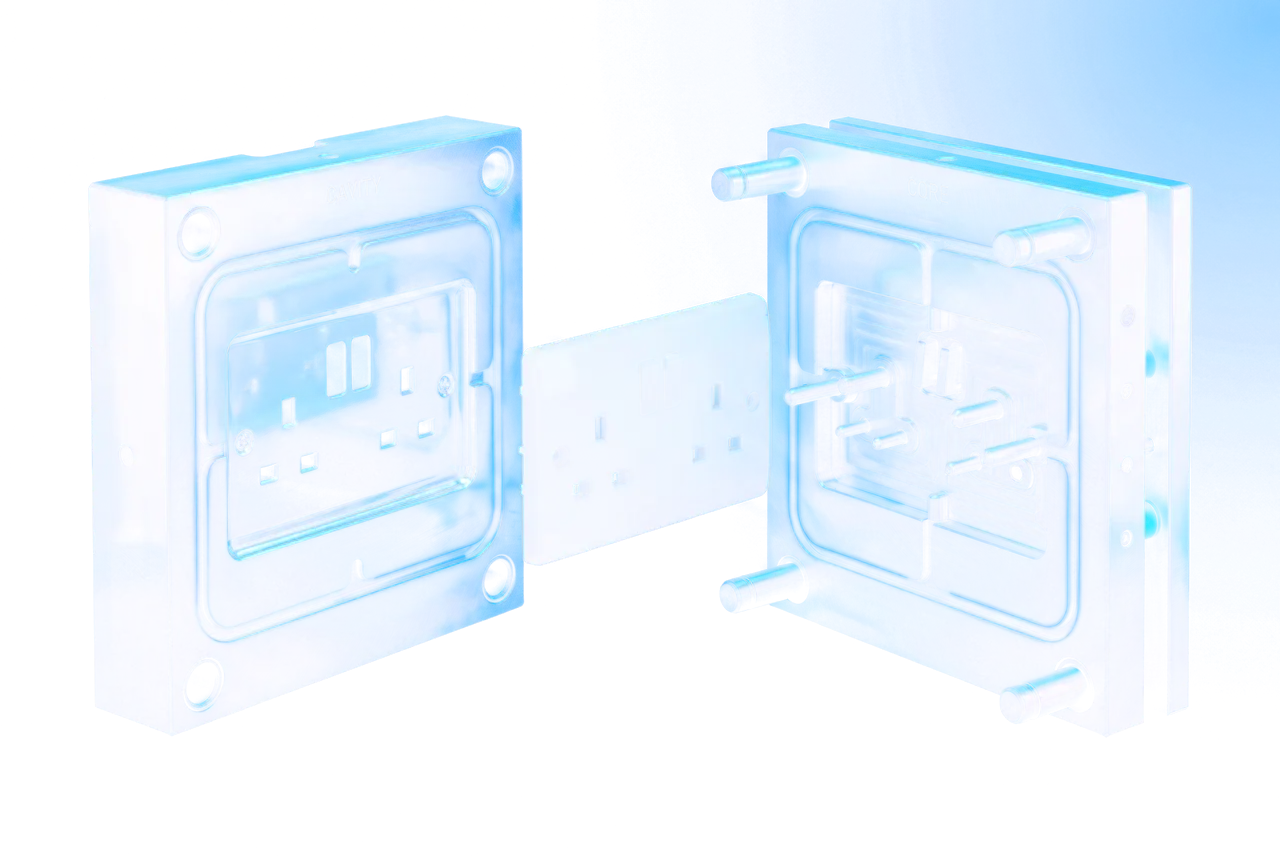
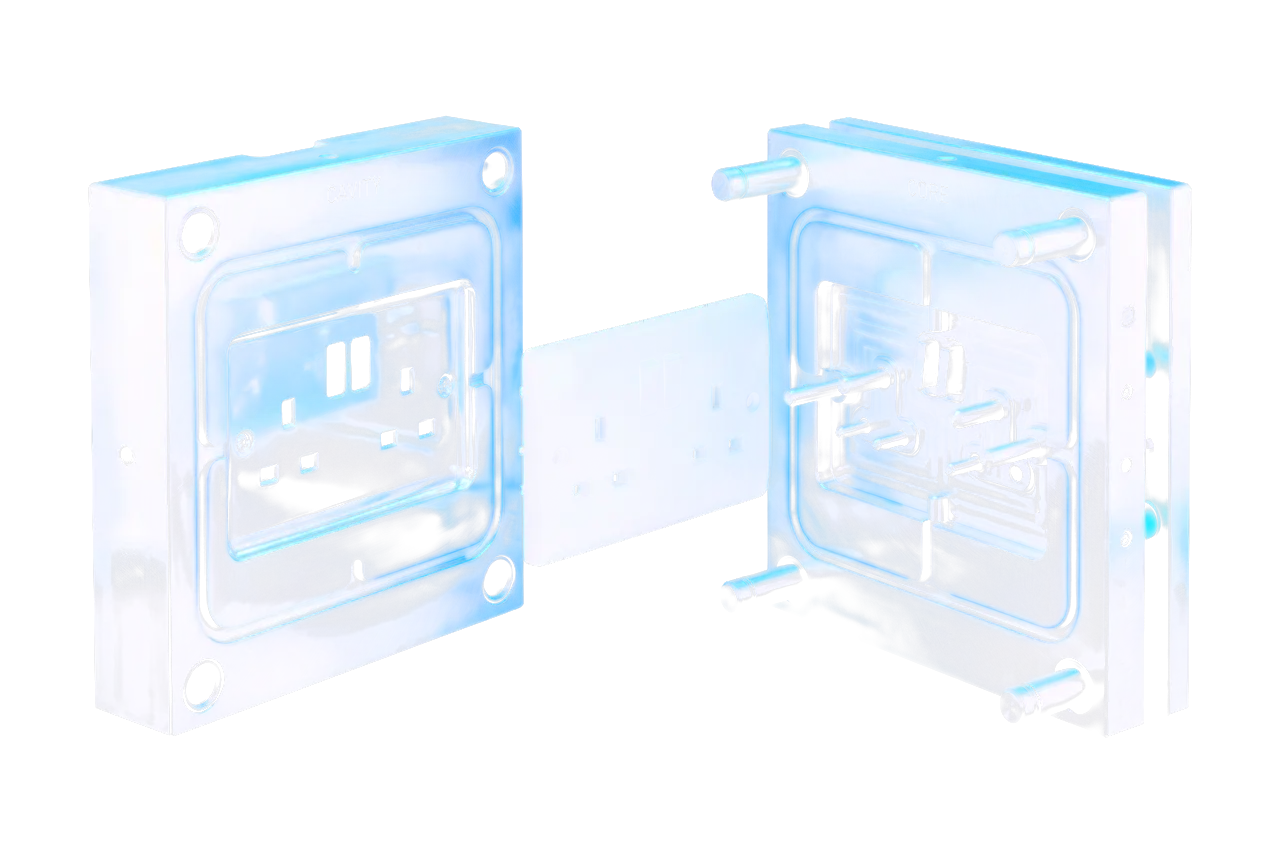
Clean projections (noise-aware keying, new globe), space finale with aurora + ringed planet, masked sheen

diff --git a/src/space.js b/src/space.js
@@ -31,10 +31,11 @@ function make(origin, tangent) {
     uniforms: { uTime: { value: 0 }, uStr: { value: 0 },
       cDeep: { value: new THREE.Color("#05070F") }, cIndigo: { value: new THREE.Color("#3B2E8C") },
       cBlue: { value: new THREE.Color("#1D4ED8") }, cCyan: { value: new THREE.Color("#5FE3FF") },
-      cViolet: { value: new THREE.Color("#8B5CF6") }, uAxis: { value: T.clone() } },
+      cViolet: { value: new THREE.Color("#8B5CF6") }, cGreen: { value: new THREE.Color("#3DFFB0") },
+      cYellow: { value: new THREE.Color("#FFE27A") }, uAxis: { value: T.clone() } },
     vertexShader: `varying vec3 vDir; void main(){ vDir = normalize(position); gl_Position = projectionMatrix * modelViewMatrix * vec4(position, 1.0); }`,
     fragmentShader: `precision highp float; varying vec3 vDir;
-      uniform float uTime, uStr; uniform vec3 cDeep, cIndigo, cBlue, cCyan, cViolet, uAxis;
+      uniform float uTime, uStr; uniform vec3 cDeep, cIndigo, cBlue, cCyan, cViolet, cGreen, cYellow, uAxis;
       ${NOISE}
       float stars(vec3 d, float scale, float thr, float tw){
         vec3 p = d * scale; vec3 i = floor(p); vec3 f = fract(p) - 0.5;
@@ -48,8 +49,9 @@ function make(origin, tangent) {
         vec3 d = normalize(vDir);
         // nebula: two layers of fbm pulled toward the pipe axis so the exit opens into a glowing cloud
         float axial = pow(max(0.0, dot(d, uAxis)), 1.6);
-        float n1 = fbm(d * 2.2 + vec3(uTime * 0.008, 0.0, 0.0));
-        float n2 = fbm(d * 5.0 - vec3(0.0, uTime * 0.006, 0.0));
+        float n1 = fbm(d * 2.2 + vec3(uTime * 0.020, uTime * 0.007, 0.0));
+        float n2 = fbm(d * 5.0 - vec3(0.0, uTime * 0.016, uTime * 0.005));
+        float n3 = fbm(d * 3.4 + vec3(uTime * 0.011, -uTime * 0.009, 4.0));
         float cloud = smoothstep(0.38, 0.85, n1 * 0.7 + n2 * 0.5);
         float wisps = smoothstep(0.55, 0.95, n2);
         vec3 neb = cDeep;
@@ -57,6 +59,14 @@ function make(origin, tangent) {
         neb = mix(neb, cBlue * 0.85, cloud * wisps * 0.9);
         neb = mix(neb, cViolet * 0.7, smoothstep(0.6, 0.9, n1) * (1.0 - axial) * 0.5);
         neb += cCyan * pow(wisps, 3.0) * 0.35 * (0.5 + axial);
+        // aurora: living green-teal curtains that ripple through the cloud, with golden cores
+        float aur = smoothstep(0.40, 0.78, n3) * (0.65 + 0.35 * sin(uTime * 0.6 + n1 * 12.0));
+        neb = mix(neb, cGreen * 0.85, aur * (0.35 + cloud * 0.65));
+        neb += cYellow * pow(aur, 2.0) * 0.55 * (0.5 + 0.5 * sin(uTime * 0.9 + n2 * 20.0));
+        neb += cGreen * pow(max(0.0, n2 - 0.5) * 2.0, 2.0) * 0.35;
+        // slow golden shafts sweeping across (light through the cloud)
+        float shaft = pow(0.5 + 0.5 * sin(dot(d, vec3(3.0, 5.0, 2.0)) * 4.0 + uTime * 0.25 + n1 * 3.0), 6.0);
+        neb += cYellow * shaft * 0.10 * cloud;
         neb *= 0.55 + axial * 0.9;
         // a luminous band (our galaxy) across the sky
         float band = exp(-pow(dot(d, normalize(cross(uAxis, vec3(0.3, 1.0, 0.2)))), 2.0) * 9.0);
@@ -65,7 +75,10 @@ function make(origin, tangent) {
         float st = stars(d, 60.0, 0.955, 1.0) * 1.4
                  + stars(d, 130.0, 0.945, 1.6) * 0.9
                  + stars(d, 260.0, 0.93, 2.2) * 0.5;
-        vec3 col = neb + vec3(0.9, 0.96, 1.0) * st * (0.7 + band * 0.8);
+        // stars in three temperatures: ice-white, warm gold, faint green
+        float hue = hash(floor(d * 60.0) + 9.0);
+        vec3 starCol = hue < 0.55 ? vec3(0.9, 0.96, 1.0) : (hue < 0.85 ? cYellow : cGreen);
+        vec3 col = neb + starCol * st * (0.8 + band * 0.9);
         gl_FragColor = vec4(col * uStr, 1.0);
       }`
   });
@@ -76,36 +89,50 @@ function make(origin, tangent) {
   const sunDir = new THREE.Vector3().copy(T).multiplyScalar(-0.3).addScaledVector(R, -0.8).addScaledVector(U, 0.5).normalize();
   const planetMat = new THREE.ShaderMaterial({
     uniforms: { uTime: { value: 0 }, uStr: { value: 0 }, uSun: { value: sunDir },
-      cA: { value: new THREE.Color("#0B1A4A") }, cB: { value: new THREE.Color("#1D4ED8") },
-      cC: { value: new THREE.Color("#5FE3FF") }, cD: { value: new THREE.Color("#3B2E8C") } },
+      cA: { value: new THREE.Color("#12327F") }, cB: { value: new THREE.Color("#5FA8FF") },
+      cC: { value: new THREE.Color("#E6FAFF") }, cD: { value: new THREE.Color("#A48BFF") },
+      cGold: { value: new THREE.Color("#FFE7B8") } },
     vertexShader: `varying vec3 vN; varying vec3 vP; varying vec3 vV;
       void main(){ vN = normalize(normalMatrix * normal); vP = position;
         vec4 mv = modelViewMatrix * vec4(position, 1.0); vV = normalize(-mv.xyz); gl_Position = projectionMatrix * mv; }`,
     fragmentShader: `precision highp float; varying vec3 vN; varying vec3 vP; varying vec3 vV;
-      uniform float uTime, uStr; uniform vec3 uSun, cA, cB, cC, cD;
+      uniform float uTime, uStr; uniform vec3 uSun, cA, cB, cC, cD, cGold;
       ${NOISE}
       void main(){
         vec3 p = normalize(vP);
         float lat = p.y;
-        float turb = fbm(vec3(p.x * 3.0 + uTime * 0.02, lat * 9.0, p.z * 3.0)) - 0.5;
-        float bands = sin(lat * 26.0 + turb * 6.0) * 0.5 + 0.5;
-        float storm = smoothstep(0.75, 0.95, fbm(p * 6.0 + 3.0));
-        vec3 col = mix(cA, cB, bands);
-        col = mix(col, cD, smoothstep(0.3, 0.7, fbm(vec3(lat * 4.0, p.x, p.z) + 7.0)) * 0.6);
-        col = mix(col, cC, storm * 0.5);
+        // flowing bands: turbulence shears the latitude lines, slowly drifting
+        float turb = fbm(vec3(p.x * 2.6 + uTime * 0.03, lat * 8.0, p.z * 2.6)) - 0.5;
+        float turb2 = fbm(vec3(p.x * 7.0 - uTime * 0.02, lat * 20.0, p.z * 7.0) + 5.0) - 0.5;
+        float b1 = sin(lat * 22.0 + turb * 7.0 + turb2 * 2.0) * 0.5 + 0.5;
+        float b2 = sin(lat * 47.0 - turb * 4.0) * 0.5 + 0.5;
+        float storm = smoothstep(0.72, 0.95, fbm(p * 5.0 + vec3(uTime * 0.01, 0.0, 0.0) + 3.0));
+        vec3 col = mix(cA, cB, pow(b1, 1.4));
+        col = mix(col, cD, smoothstep(0.35, 0.75, b2) * 0.30 * (1.0 - b1));
+        col = mix(col, cC, storm * 0.7 + pow(b1, 6.0) * 0.25);
+        // polar ice caps with a rippling green aurora ring around them
+        col = mix(col, cC, smoothstep(0.78, 0.95, abs(lat)) * 0.7);
+        float auroraRing = smoothstep(0.62, 0.72, abs(lat)) * (1.0 - smoothstep(0.74, 0.84, abs(lat)));
+        float ripple = 0.5 + 0.5 * sin(atan(p.z, p.x) * 9.0 + uTime * 1.3 + turb * 6.0);
+        col += vec3(0.24, 1.0, 0.69) * auroraRing * ripple * 0.55;
         vec3 N = normalize(vN);
-        float diff = max(0.0, dot(N, normalize((viewMatrix * vec4(uSun, 0.0)).xyz)));
-        float wrap = pow(diff, 0.6) * 1.15 + 0.10;
+        vec3 L = normalize((viewMatrix * vec4(uSun, 0.0)).xyz);
+        float diff = max(0.0, dot(N, L));
+        float wrap = pow(diff, 0.55) * 1.2 + 0.08;
         float fres = pow(1.0 - max(0.0, dot(N, vV)), 3.0);
-        col = col * wrap + cC * fres * (0.35 + diff * 0.6);
+        // champagne-gold light along the terminator, icy blue atmosphere on the rim
+        float term = smoothstep(0.0, 0.25, diff) * (1.0 - smoothstep(0.25, 0.6, diff));
+        col = col * wrap + cGold * term * 0.16 + cB * fres * (0.35 + diff * 0.8) + cC * fres * fres * 0.5;
         gl_FragColor = vec4(col * uStr, 1.0);
       }`
   });
   const planet = new THREE.Mesh(new THREE.SphereGeometry(58, 64, 48), planetMat);
   const pPos = origin.clone().addScaledVector(T, 210).addScaledVector(R, 95).addScaledVector(U, 28);
-  planet.position.copy(pPos);
-  planet.rotation.z = 0.35; planet.rotation.x = 0.2;
-  group.add(planet);
+  const system = new THREE.Group();            // planet + ring share one axial tilt
+  system.position.copy(pPos);
+  system.rotation.set(0.42, 0.0, 0.30);
+  group.add(system);
+  system.add(planet);
 
   const ringMat = new THREE.ShaderMaterial({
     side: THREE.DoubleSide, transparent: true, depthWrite: false,
@@ -119,7 +146,8 @@ function make(origin, tangent) {
         float lanes = smoothstep(0.35, 0.8, g) * (1.0 - smoothstep(0.92, 1.0, r)) * smoothstep(0.0, 0.08, r);
         float gap = 1.0 - smoothstep(0.55, 0.58, r) * (1.0 - smoothstep(0.62, 0.65, r));
         float a = lanes * gap * 0.55;
-        vec3 col = mix(cB, cC, r) * (0.55 + 0.45 * g);
+        vec3 col = mix(mix(vec3(1.0, 0.89, 0.55), cB, smoothstep(0.0, 0.25, r)), cC, r) * (0.55 + 0.45 * g);
+        col = mix(col, vec3(0.45, 1.0, 0.75), smoothstep(0.78, 0.86, r) * (1.0 - smoothstep(0.86, 0.9, r)) * 0.6);
         gl_FragColor = vec4(col * uStr, a * uStr);
       }`
   });
@@ -128,9 +156,8 @@ function make(origin, tangent) {
   { const uv = ringGeo.attributes.uv, pos = ringGeo.attributes.position;
     for (let i = 0; i < uv.count; i++) { const x = pos.getX(i), y = pos.getY(i); uv.setXY(i, (Math.hypot(x, y) - 74) / (128 - 74), 0); } }
   const ring = new THREE.Mesh(ringGeo, ringMat);
-  ring.position.copy(pPos);
-  ring.rotation.set(Math.PI / 2 - 0.42, 0.18, 0.35);
-  group.add(ring);
+  ring.rotation.x = Math.PI / 2;                 // equatorial plane of the tilted system
+  system.add(ring);
 
   // atmosphere halo (additive sprite)
   const haloTex = (() => { const c = document.createElement("canvas"); c.width = c.height = 256;
@@ -142,7 +169,7 @@ function make(origin, tangent) {
   group.add(halo);
 
   /* ---- drifting dust ---- */
-  const COUNT = isMobile ? 500 : 1400;
+  const COUNT = isMobile ? 700 : 2200;
   const geo = new THREE.BufferGeometry();
   const arr = new Float32Array(COUNT * 3), sh = new Float32Array(COUNT);
   for (let i = 0; i < COUNT; i++) {
@@ -161,12 +188,43 @@ function make(origin, tangent) {
     fragmentShader: `precision highp float; varying float vS; uniform float uStr, uTime; uniform vec3 cB, cC;
       void main(){ float d = length(gl_PointCoord - 0.5); float a = smoothstep(0.5, 0.0, d);
         float tw = 0.6 + 0.4 * sin(uTime * (1.0 + vS * 2.0) + vS * 50.0);
-        gl_FragColor = vec4(mix(cB, cC, vS), a * tw * 0.8 * uStr); }`
+        vec3 col = vS < 0.6 ? mix(cB, cC, vS / 0.6) : (vS < 0.82 ? vec3(1.0, 0.88, 0.48) : vec3(0.35, 1.0, 0.7));
+        gl_FragColor = vec4(col, a * tw * 0.85 * uStr); }`
   });
   const dust = new THREE.Points(geo, dustMat); dust.frustumCulled = false;
   group.add(dust);
 
   sky.position.copy(origin).addScaledVector(T, 40);
+
+  /* ---- two moons on tilted orbits ---- */
+  const moonMat = new THREE.ShaderMaterial({
+    uniforms: { uStr: { value: 0 }, uSun: { value: sunDir }, cM: { value: new THREE.Color("#C9D6EA") }, cR: { value: new THREE.Color("#7FB8FF") } },
+    vertexShader: `varying vec3 vN; varying vec3 vV; varying vec3 vP; void main(){ vN = normalize(normalMatrix * normal); vP = position;
+      vec4 mv = modelViewMatrix * vec4(position, 1.0); vV = normalize(-mv.xyz); gl_Position = projectionMatrix * mv; }`,
+    fragmentShader: `precision highp float; varying vec3 vN; varying vec3 vV; varying vec3 vP; uniform float uStr; uniform vec3 uSun, cM, cR;
+      ${NOISE}
+      void main(){ vec3 N = normalize(vN); float diff = max(0.0, dot(N, normalize((viewMatrix * vec4(uSun, 0.0)).xyz)));
+        float crat = fbm(normalize(vP) * 9.0); vec3 col = cM * (0.55 + 0.45 * crat) * (pow(diff, 0.7) * 1.1 + 0.05);
+        col += cR * pow(1.0 - max(0.0, dot(N, vV)), 3.0) * 0.4; gl_FragColor = vec4(col * uStr, 1.0); }`
+  });
+  const moons = [
+    { m: new THREE.Mesh(new THREE.SphereGeometry(7, 32, 24), moonMat), r: 150, speed: 0.11, tilt: 0.35, phase: 0.8 },
+    { m: new THREE.Mesh(new THREE.SphereGeometry(4, 24, 16), moonMat), r: 195, speed: 0.07, tilt: -0.22, phase: 3.4 }
+  ];
+  moons.forEach(o => group.add(o.m));
+
+  /* ---- comets: additive streaks that cross the sky now and then ---- */
+  const cometTex = (() => { const c = document.createElement("canvas"); c.width = 256; c.height = 16;
+    const g = c.getContext("2d"), lg = g.createLinearGradient(0, 0, 256, 0);
+    lg.addColorStop(0, "rgba(255,255,255,0)"); lg.addColorStop(0.75, "rgba(160,220,255,0.35)"); lg.addColorStop(0.97, "rgba(255,255,255,1)"); lg.addColorStop(1, "rgba(255,255,255,0)");
+    g.fillStyle = lg; g.fillRect(0, 0, 256, 16); return new THREE.CanvasTexture(c); })();
+  const comets = [];
+  for (let i = 0; i < 3; i++) {
+    const m = new THREE.Mesh(new THREE.PlaneGeometry(60, 1.6), new THREE.MeshBasicMaterial({ map: cometTex, transparent: true, opacity: 0,
+      blending: THREE.AdditiveBlending, depthWrite: false, side: THREE.DoubleSide }));
+    group.add(m); comets.push({ m, t0: -10 - i * 7, period: 11 + i * 5, dur: 2.2, a: Math.random() * 6.28, b: Math.random(), armed: false });
+  }
+  const _cp = new THREE.Vector3(), _cd = new THREE.Vector3(), _X = new THREE.Vector3(1, 0, 0), _cq = new THREE.Quaternion();
   group.visible = false;
 
   return {
@@ -178,7 +236,29 @@ function make(origin, tangent) {
       planetMat.uniforms.uTime.value = t; planetMat.uniforms.uStr.value = str;
       ringMat.uniforms.uStr.value = str; halo.material.opacity = str * 0.9;
       dustMat.uniforms.uTime.value = t; dustMat.uniforms.uStr.value = str;
-      planet.rotation.y = t * 0.02;
+      planet.rotation.y = t * 0.06;
+      sky.rotation.y = t * 0.004; sky.rotation.x = Math.sin(t * 0.03) * 0.02;
+      ring.rotation.z = t * 0.01;
+      moonMat.uniforms.uStr.value = str;
+      moons.forEach(o => {
+        const a = t * o.speed + o.phase;
+        o.m.position.copy(pPos).addScaledVector(R, Math.cos(a) * o.r).addScaledVector(T, Math.sin(a) * o.r * 0.55)
+          .addScaledVector(U, Math.sin(a) * o.r * o.tilt);
+        o.m.rotation.y = t * 0.2;
+      });
+      comets.forEach(c => {
+        const k = ((t - c.t0) % c.period + c.period) % c.period;    // time since this comet last launched
+        if (k > c.dur) { c.m.material.opacity = 0; c.armed = false; return; }
+        const f = k / c.dur;
+        if (!c.armed) { c.a = Math.random() * 6.28; c.b = Math.random(); c.armed = true; }
+        // start high and to one side, streak across the field ahead of the exit
+        _cp.copy(origin).addScaledVector(T, 120 + c.b * 120).addScaledVector(R, Math.cos(c.a) * 150).addScaledVector(U, Math.sin(c.a) * 110 + 60);
+        _cd.copy(R).multiplyScalar(-1.0).addScaledVector(U, -0.7).addScaledVector(T, 0.2).normalize();
+        _cp.addScaledVector(_cd, f * 260);
+        c.m.position.copy(_cp);
+        _cq.setFromUnitVectors(_X, _cd); c.m.quaternion.copy(_cq);
+        c.m.material.opacity = Math.sin(f * Math.PI) * 0.9 * str;
+      });
     }
   };
 }

diff --git a/index.html b/index.html
@@ -180,10 +180,13 @@
     -webkit-mask-image:radial-gradient(120% 120% at 50% 50%, #000 58%, transparent 92%);
             mask-image:radial-gradient(120% 120% at 50% 50%, #000 58%, transparent 92%); }
   .st-photo img{ width:100%; height:auto; display:block; transform-origin:60% 45%;
-    filter:drop-shadow(0 0 34px rgba(59,130,246,.22));
+    filter:drop-shadow(0 0 14px rgba(95,227,255,.12));
     animation:kenburns 22s ease-in-out infinite alternate,
               holoflicker 8.5s linear infinite; }
-  .st-photo::after{ content:""; position:absolute; inset:-10%;
+  /* the light sweep is masked by the projection itself, so it only ever touches the subject */
+  .st-photo::after{ content:""; position:absolute; inset:0;
+    -webkit-mask-image:var(--img); mask-image:var(--img);
+    -webkit-mask-size:100% 100%; mask-size:100% 100%; -webkit-mask-repeat:no-repeat; mask-repeat:no-repeat;
     background:linear-gradient(112deg, transparent 43%,
       rgba(170,225,255,.16) 50%, rgba(170,225,255,.05) 53%, transparent 60%);
     animation:sheen 6.5s ease-in-out infinite; pointer-events:none; }
@@ -479,10 +482,10 @@
 <script src="lib/gsap.min.js"></script>
 <script src="lib/ScrollTrigger.min.js"></script>
 <script src="lib/lenis.min.js"></script>
-<script src="src/content.js?v=7"></script>
-<script src="src/scenes.js?v=7"></script>
-<script src="src/viz.js?v=7"></script>
-<script src="src/space.js?v=7"></script>
-<script src="src/app.js?v=7"></script>
+<script src="src/content.js?v=9"></script>
+<script src="src/scenes.js?v=9"></script>
+<script src="src/viz.js?v=9"></script>
+<script src="src/space.js?v=9"></script>
+<script src="src/app.js?v=9"></script>
 </body>
 </html>

diff --git a/src/app.js b/src/app.js
@@ -597,7 +597,7 @@ CV.stations.forEach((st, i) => {
         <div class="st-tools"></div>
         <ul class="st-bullets"></ul>
       </div>
-      ${hasImg ? '<div class="st-viz-wrap"><div class="st-photo"><img src="' + st.img + '" alt="" loading="lazy" /></div></div>' : ""}
+      ${hasImg ? '<div class="st-viz-wrap"><div class="st-photo" style="--img:url(' + st.img + ')"><img src="' + st.img + '" alt="" loading="lazy" /></div></div>' : ""}
       ${hasViz ? '<div class="st-viz-wrap"><canvas class="st-viz" width="560" height="340"></canvas></div>' : ""}
     </div>`;
   stage.appendChild(el);

diff --git a/tools/to_projection.py b/tools/to_projection.py
@@ -1,0 +1,40 @@
+"""Turn a black-background render into a floating 'projection' (RGBA WebP).
+
+Black -> transparent, with two guards against the faint "box" that plain
+luminance keying produces:
+  1. noise-aware: isolated near-black specks are dropped unless their
+     neighbourhood also carries light (spatial coherence),
+  2. gentle un-premultiply: dim pixels are brightened at most 3x, not blown to
+     full white, so residual haze can't read as a light rectangle.
+
+usage: python to_projection.py <src.png> <out.webp> [more src out pairs]
+"""
+import sys, numpy as np
+from PIL import Image, ImageFilter
+
+LO, HI = 30, 76          # noise floor / full-opacity point (0-255 max(R,G,B))
+
+def convert(src, out):
+    im = Image.open(src).convert("RGB")
+    im.thumbnail((1280, 1280), Image.LANCZOS)
+    rgb = np.asarray(im).astype(np.float32)
+    m = rgb.max(axis=2)
+    # base alpha: 0 below LO, ramps LO..HI, then follows brightness
+    a = np.where(m <= LO, 0.0, np.where(m < HI, (m - LO) * HI / (HI - LO), m))
+    # spatial coherence: blur the alpha; lonely specks have a dark neighbourhood
+    blur = np.asarray(Image.fromarray(np.clip(a, 0, 255).astype(np.uint8)).filter(ImageFilter.BoxBlur(5))).astype(np.float32)
+    coh = np.clip((blur - 6.0) / 34.0, 0.0, 1.0)
+    strong = np.clip((a - 60.0) / 40.0, 0.0, 1.0)          # bright pixels keep themselves
+    a = a * (strong + (1.0 - strong) * coh)
+    # colour: un-premultiply, capped
+    scale = np.where(m > 0, np.minimum(255.0 / np.maximum(m, 1.0), 3.0), 0.0)
+    col = np.clip(rgb * scale[..., None], 0, 255)
+    rgba = np.dstack([col, np.clip(a, 0, 255)]).astype(np.uint8)
+    rgba[a <= 0.5] = 0
+    Image.fromarray(rgba, "RGBA").save(out, "WEBP", quality=72, method=6)
+    return rgba.shape[1], rgba.shape[0]
+
+if __name__ == "__main__":
+    args = sys.argv[1:]
+    for s, o in zip(args[::2], args[1::2]):
+        print(o, convert(s, o))
